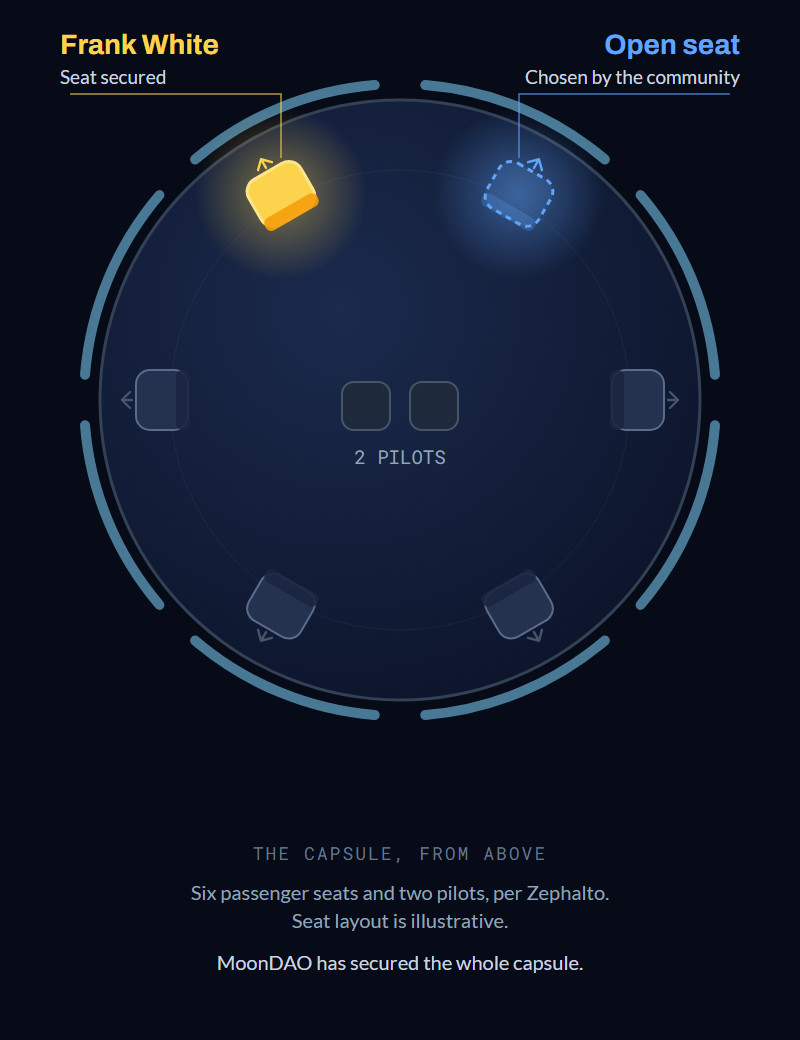
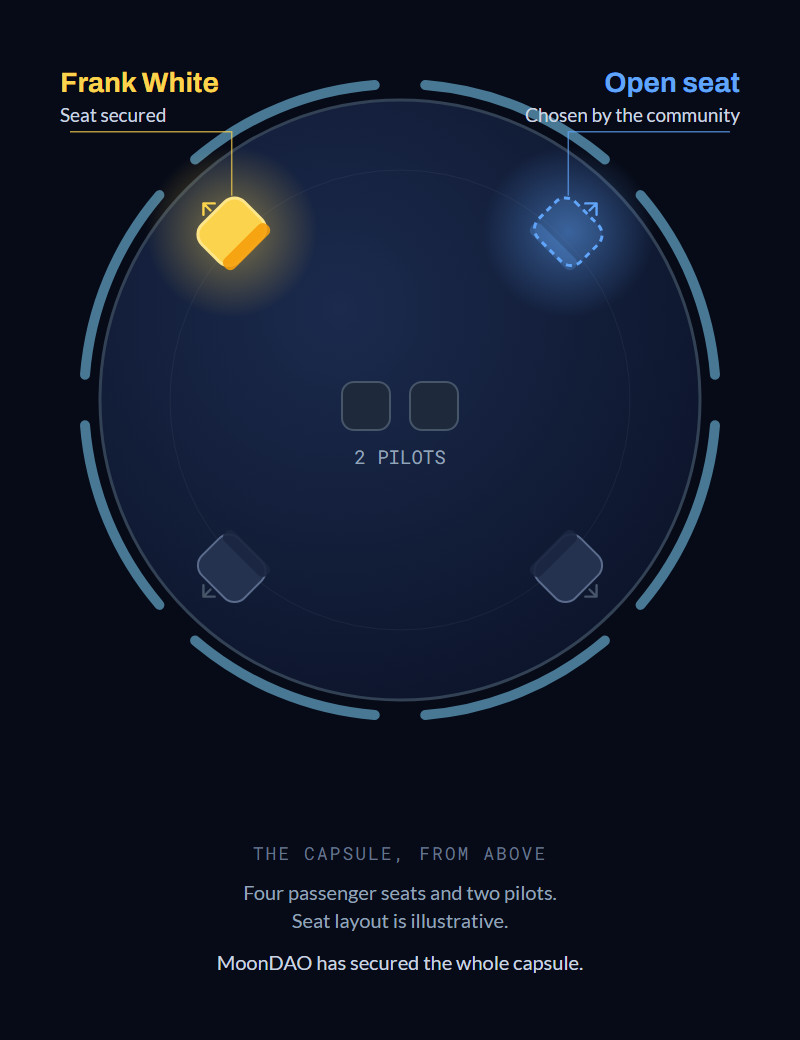
Frank update: origin story, former Senator, four-seat capsule
Tell the Overview Effect in Frank's order: the revelation on a flight
and the name came first, then the astronaut interviews tested it. Call
Frank a former Senator. Stop naming the capsule model and show four
passenger seats plus two pilots.

diff --git a/ui/content/updates/2026-11-19-frank-white-seat-to-near-space.md b/ui/content/updates/2026-11-19-frank-white-seat-to-near-space.md
@@ -1,6 +1,6 @@
 ---
 title: "We secured Frank White's seat to near space"
-description: "Frank White named the Overview Effect after four decades of interviewing astronauts, but he has never seen it for himself. After a nearly two-year search, MoonDAO has secured a Zephalto capsule to take him to the stratosphere. The seat beside him goes to someone from our community."
+description: "Frank White named the Overview Effect, then spent four decades interviewing the astronauts who lived it, but he has never seen it for himself. After a nearly two-year search, MoonDAO has secured a Zephalto capsule to take him to the stratosphere. The seat beside him goes to someone from our community."
 date: 2026-11-19
 author: MoonDAO
 authorRole: Executive Branch
@@ -16,7 +16,7 @@ featured: true
 draft: true
 ---
 
-Frank White gave the Overview Effect its name. It describes the shift astronauts report when they see the whole Earth from above: a planet without borders, held in a layer of atmosphere thinner than seems possible. For nearly 40 years, Frank has interviewed the people who felt it.
+Frank White gave the Overview Effect its name. It describes the shift astronauts report when they see the whole Earth from above: a planet without borders, held in a layer of atmosphere thinner than seems possible. Frank predicted that shift before he had heard anyone describe it, then spent nearly 40 years interviewing the people who felt it.
 
 He has never felt it himself.
 
@@ -49,15 +49,17 @@ That is about to change. **MoonDAO has secured Frank's seat to near space.** He 
 
 ## The man who named the feeling
 
-In the 1980s, Frank began asking astronauts and cosmonauts a simple question: what was it like to see the Earth from space? Over the following decades he interviewed more than 50 of them. The answers kept pointing to the same experience: awe, a sudden sense of how fragile and connected everything is, and a lasting change in how they saw their place on the planet.
+It started with a window seat. On a flight across the United States, Frank looked down at the country passing below and had a revelation: anyone living in space would always have a view like this, only bigger. They would see the whole planet at once, without borders, and it would change how they thought about the Earth and their place on it.
 
-Frank called it the Overview Effect. His book of the same name is now in its fourth edition. He co-founded the Overview Institute, and the term has spread far beyond spaceflight, into documentaries, classrooms and the language of nearly every company that sells a trip upward.
+The idea and its name came first. Frank called it the Overview Effect, and treated it as a hypothesis to test. Then he went looking for evidence. He began asking astronauts and cosmonauts a simple question: what was it like to see the Earth from space? Over the following decades he interviewed more than 50 of them. Their answers matched what he had predicted: awe, a sudden sense of how fragile and connected everything is, and a lasting change in how they saw their place on the planet.
+
+His book, *The Overview Effect*, is now in its fourth edition. He co-founded the Overview Institute, and the term has spread far beyond spaceflight, into documentaries, classrooms and the language of nearly every company that sells a trip upward.
 
 Then he watched everyone else go. Astronauts, then the first private customers, then celebrities. The person who gave the industry its vocabulary for *why* we go was still on the ground.
 
 > Everyone told us no one deserves to go more than Frank. Plenty of people said it. MoonDAO was the only group that actually fought for it.
 
-Frank is not only the mission's passenger. He is a MoonDAO Citizen and a Senator in our governance, and he has worked alongside the community every step of the way, from town halls with astronauts to daily calls during the raise.
+Frank is not only the mission's passenger. He is a MoonDAO Citizen and a former Senator in our governance, and he has worked alongside the community every step of the way, from town halls with astronauts to daily calls during the raise.
 
 ## Nearly two years, start to seat
 
@@ -172,7 +174,7 @@ That vote is why there is an open seat today. Taking the quick single seat would
 
 We chose Zephalto to take Frank to the edge of space.
 
-Zephalto is a French company building low-carbon flights to the stratosphere. Its pressurized Céleste capsule hangs beneath a large balloon and rises gently, with no rocket burn and no high g-forces, to about 25 kilometres. That is more than twice the cruising height of an airliner and above roughly 97% of the atmosphere. From there the sky turns black in daylight, and the Earth's curve and the thin blue line of the atmosphere are plain to see.
+Zephalto is a French company building low-carbon flights to the stratosphere. Its pressurized capsule hangs beneath a large balloon and rises gently, with no rocket burn and no high g-forces, to about 25 kilometres. That is more than twice the cruising height of an airliner and above roughly 97% of the atmosphere. From there the sky turns black in daylight, and the Earth's curve and the thin blue line of the atmosphere are plain to see.
 
 It is not the Kármán line, and we won't pretend it is. But the Overview Effect is not about crossing a line. It is about *seeing*: the planet as a whole, the fragile layer of air around it, and the dark beyond. In Zephalto's capsule, Frank will have hours to look.
 
@@ -195,7 +197,7 @@ The flight is slow by design. Zephalto's published profile is about 90 minutes o
  "type": "line",
  "figure": "Figure 6",
  "title": "Hours at the top, not minutes",
- "subtitle": "Approximate altitude over a typical Céleste flight.",
+ "subtitle": "Approximate altitude over a typical Zephalto flight.",
  "unit": " km",
  "y": {"min": 0, "max": 30},
  "x": {"label": "Time since lift-off", "count": 13, "labels": ["0", "", "1h", "", "2h", "", "3h", "", "4h", "", "5h", "", "6h"]},
@@ -247,8 +249,8 @@ Frank's seat is confirmed. The seat beside him is still open, and it will go to 
  "subtitle": "A top-down view of the capsule. Frank's seat is confirmed; the seat beside him will go to a community member.",
  "src": "/assets/updates/frank-zephalto/capsule-seats.jpg",
  "narrow": "/assets/updates/frank-zephalto/capsule-seats-narrow.jpg",
- "alt": "Top-down diagram of a round capsule with six passenger seats facing a ring of windows and two pilot seats in the middle. One seat, highlighted gold, is Frank White's. The seat next to it is outlined in blue and marked open, to be chosen by the community.",
- "source": "Six passengers and two pilots, per Zephalto's published design. The seat arrangement is illustrative."
+ "alt": "Top-down diagram of a round capsule with four passenger seats facing a ring of windows and two pilot seats in the middle. One seat, highlighted gold, is Frank White's. The seat next to it is outlined in blue and marked open, to be chosen by the community.",
+ "source": "Four passengers and two pilots. The seat arrangement is illustrative."
 }
 ```
 
